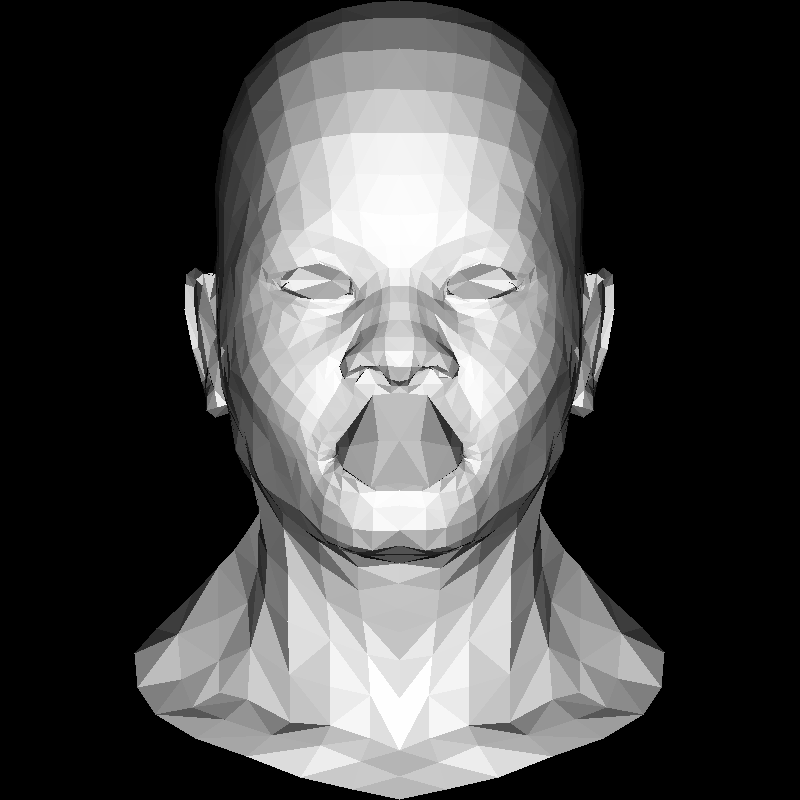
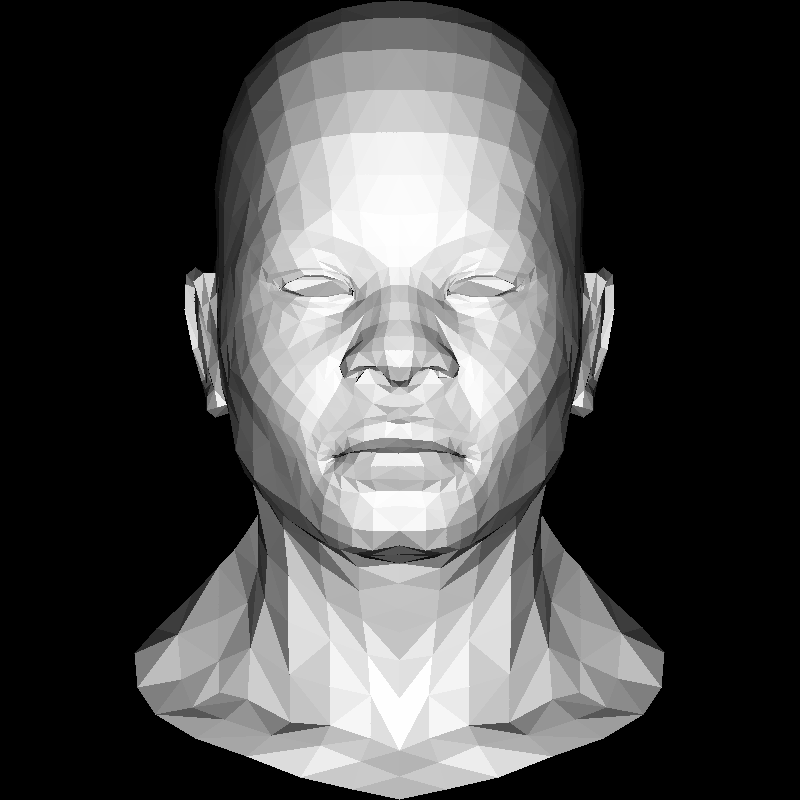
Add zBuffer

diff --git a/src/main/kotlin/fr/oyashirox/Renderer.kt b/src/main/kotlin/fr/oyashirox/Renderer.kt
@@ -12,19 +12,19 @@ import kotlin.random.Random
 /** Use this class to render a model on a canvas*/
 @Suppress("MemberVisibilityCanBePrivate")
 class Renderer(val canvas: Canvas) {
+    val halfWidth = (canvas.image.width - 1) / 2.0f
+    val halfHeight = (canvas.image.height - 1) / 2.0f
+
+    private fun mapToScreen(world: Vector) = Point(
+        ((world.x + 1) * halfWidth).toInt(),
+        ((world.y + 1) * halfHeight).toInt(),
+        world.z
+    )
+
     fun renderWireframeModel(model: Model) {
-        val halfWidth = (canvas.image.width - 1) / 2.0f
-        val halfHeight = (canvas.image.height - 1) / 2.0f
         model.faces.forEach { face ->
             // Convert world to screen coord (orthographic)
-            val points = face.vertices
-                .map {
-                    val x = ((it.x + 1) * halfWidth).toInt()
-                    val y = ((it.y + 1) * halfHeight).toInt()
-                    Point(
-                        x, y
-                    )
-                }
+            val points = face.vertices.map(::mapToScreen)
             // Create the triangle
             points.forEachIndexed { index, point ->
                 val point2 = points[(index + 1) % 3]
@@ -34,37 +34,19 @@ class Renderer(val canvas: Canvas) {
     }
 
     fun renderFlat(model: Model) {
-        val halfWidth = (canvas.image.width - 1) / 2.0f
-        val halfHeight = (canvas.image.height - 1) / 2.0f
         val random = Random(0)
         model.faces.forEach { face ->
             // Convert world to screen coord (orthographic)
-            val points = face.vertices
-                .map {
-                    val x = ((it.x + 1) * halfWidth).toInt()
-                    val y = ((it.y + 1) * halfHeight).toInt()
-                    Point(
-                        x, y
-                    )
-                }
+            val points = face.vertices.map(::mapToScreen)
             // Create the triangle
             canvas.triangle(points, Color(random.nextDouble(), random.nextDouble(), random.nextDouble()))
         }
     }
 
     fun render(model: Model, lightDir: Vector) {
-        val halfWidth = (canvas.image.width - 1) / 2.0f
-        val halfHeight = (canvas.image.height - 1) / 2.0f
         model.faces.forEach { face ->
             // Convert world to screen coord (orthographic)
-            val points = face.vertices
-                .map {
-                    val x = ((it.x + 1) * halfWidth).toInt()
-                    val y = ((it.y + 1) * halfHeight).toInt()
-                    Point(
-                        x, y
-                    )
-                }
+            val points = face.vertices.map(::mapToScreen)
 
             val normal = (face.vertices[2] - face.vertices[0]).cross(face.vertices[1] - face.vertices[0]).normalize()
             val intensity = lightDir.dot(normal).coerceAtLeast(0.0)

diff --git a/src/main/kotlin/fr/oyashirox/Canvas.kt b/src/main/kotlin/fr/oyashirox/Canvas.kt
@@ -4,9 +4,13 @@ import fr.oyashirox.math.Color
 import fr.oyashirox.math.Image
 import fr.oyashirox.math.Point
 import fr.oyashirox.math.Vector
+import kotlin.math.abs
 
 /** Use this class to draw stuff on an image (like [line])*/
 class Canvas(val image: Image) {
+    private val zBuffer = DoubleArray(image.width * image.height).apply { fill(-Double.MAX_VALUE) }
+    fun resetZBuffer() = zBuffer.fill(-Double.MAX_VALUE)
+
     fun line(start: Point, end: Point, color: Color) {
         val p1 = start.copy()
         val p2 = end.copy()
@@ -94,17 +98,31 @@ class Canvas(val image: Image) {
             for (y in min.y..max.y) {
                 val barycenter = barycentric(triangle, Point(x, y))
                 if (barycenter.x < 0 || barycenter.y < 0 || barycenter.z < 0) continue
-                image[x, y] = color
+                val zValue = barycenter.x * triangle[0].zBuffer +
+                        barycenter.y * triangle[1].zBuffer +
+                        barycenter.z * triangle[2].zBuffer
+                val index = x + y * image.width
+                if (zBuffer[index] < zValue) {
+                    zBuffer[index] = zValue
+                    image[x, y] = color
+                }
             }
         }
     }
 
     private fun barycentric(triangle: List<Point>, point: Point): Vector {
         val (p1, p2, p3) = triangle
+        //x is along AC, y is along AB and z is along AP
         val xVector = Vector((p3.x - p1.x).toDouble(), (p2.x - p1.x).toDouble(), (p1.x - point.x).toDouble())
         val yVector = Vector((p3.y - p1.y).toDouble(), (p2.y - p1.y).toDouble(), (p1.y - point.y).toDouble())
         val u = xVector.cross(yVector)
 
-        return Vector(1.0f - (u.x + u.y) / u.z, u.y / u.z, u.x / u.z)
+        // I'm not completely sure about that but here we
+        // Reorganize so that x is a factor of A, y is a factor of B, and z is a factor of C
+        // Also, dividing by Z because homogeneous coords
+        return if (abs(u.z) > 1e-2)
+            Vector(1.0 - (u.x + u.y) / u.z, u.y / u.z, u.x / u.z)
+        else
+            Vector(-1.0, 1.0, 1.0)
     }
 }

diff --git a/src/main/kotlin/fr/oyashirox/math/Point.kt b/src/main/kotlin/fr/oyashirox/math/Point.kt
@@ -3,7 +3,7 @@ package fr.oyashirox.math
 import kotlin.math.abs
 
 @Suppress("NOTHING_TO_INLINE")
-data class Point(var x: Int = 0, var y: Int = 0) {
+data class Point(var x: Int = 0, var y: Int = 0, var zBuffer: Double = Double.MIN_VALUE) {
     inline operator fun plus(v: Point) = Point(x + v.x, y + v.y)
     inline operator fun minus(v: Point) = Point(x - v.x, y - v.y)
     inline fun horizontalDistanceTo(o: Point) = abs(o.x - x)
